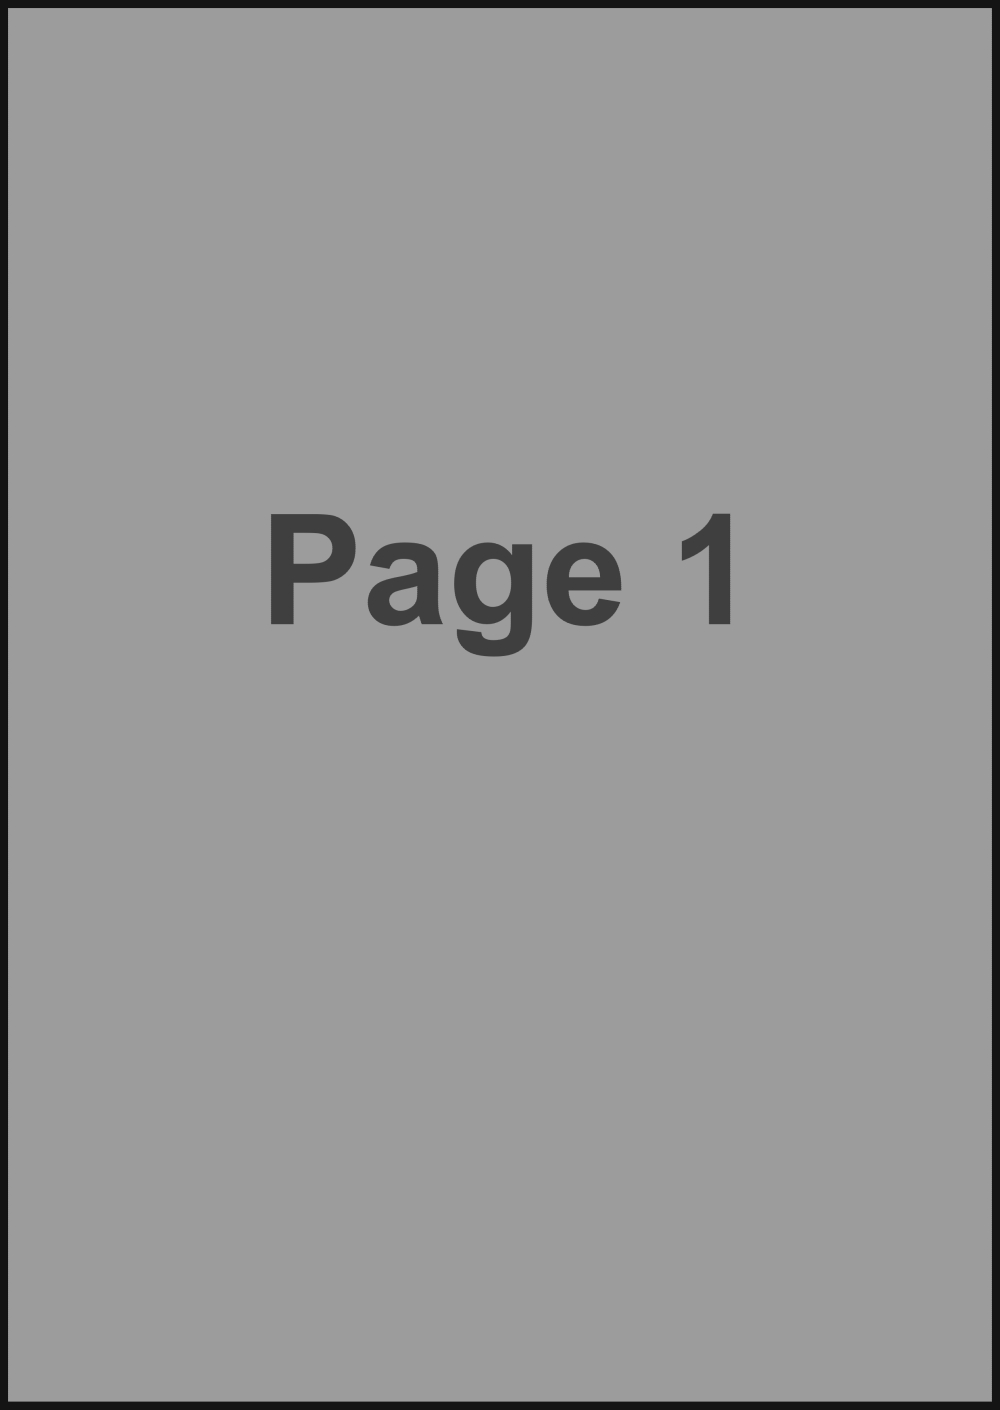
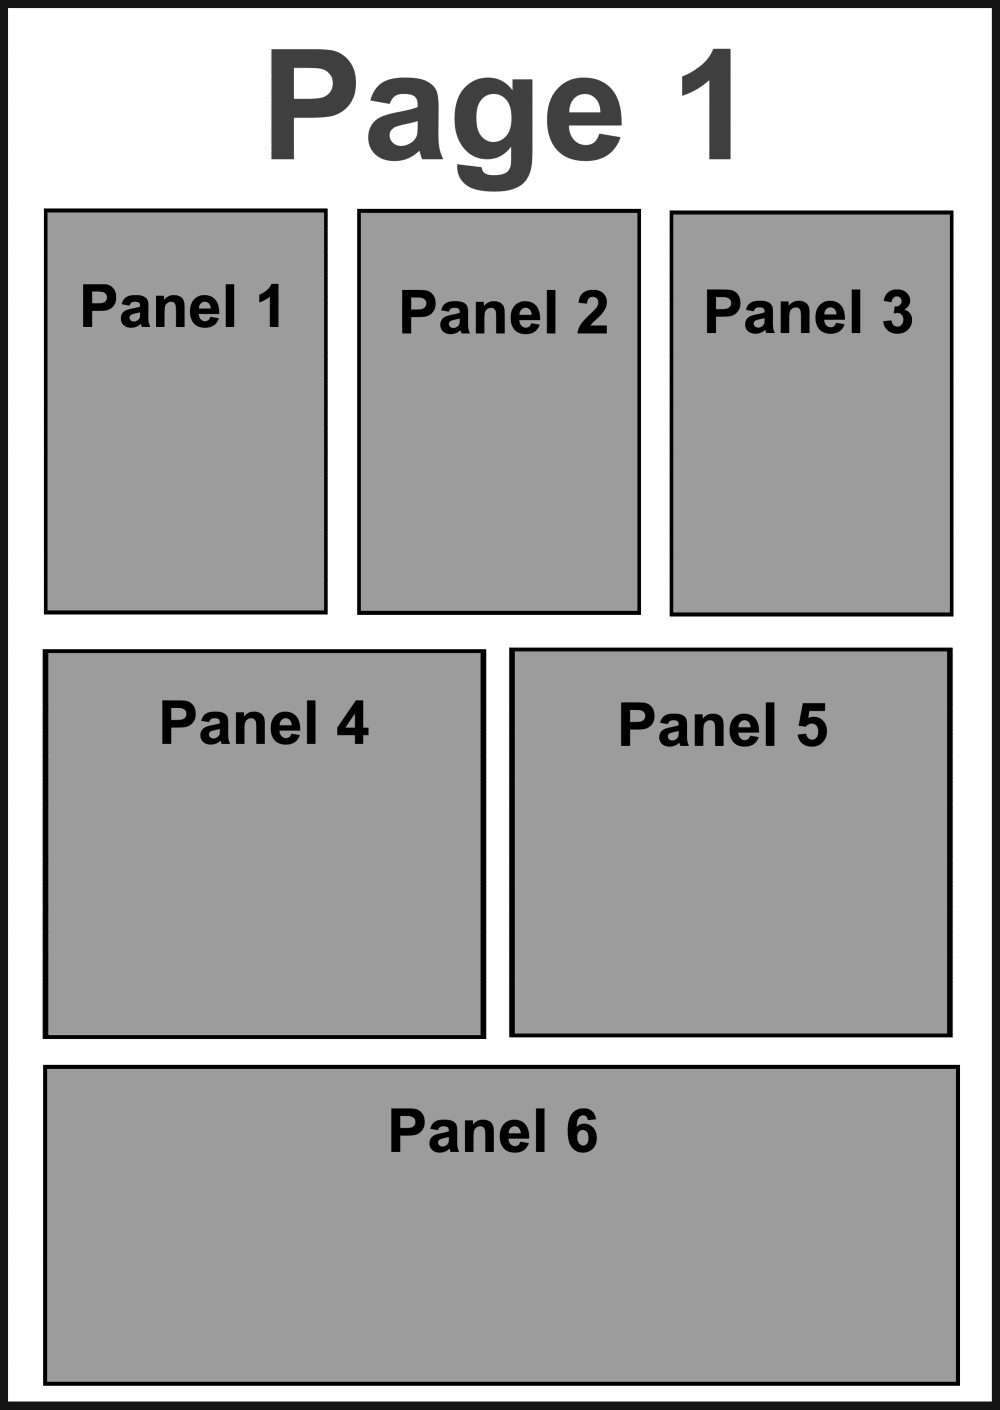
Set up multiple panel view

diff --git a/src/Components/FlexOptions/FlexOptions.jsx b/src/Components/FlexOptions/FlexOptions.jsx
@@ -1,0 +1,59 @@
+import { useState } from "react";
+import MultiPanel from "../MultiPanel/MultiPanel";
+import SinglePanel from "../SinglePanel/SinglePanel";
+import ZoomWindow from "../ZoomWindow/ZoomWindow";
+import "./FlexOptions.css";
+
+export default function FlexOptions({ source }) {
+  const [option, setOption] = useState("zoom");
+
+  function handleChange(e) {
+    setOption(e.target.value);
+  }
+
+  return (
+    <>
+      <div className="flex-options row-center">
+        <label className="flex-selector">
+          <input
+            type="radio"
+            onChange={handleChange}
+            name="flexOption"
+            value="zoom"
+            checked={option === "zoom"}
+          />
+          <div>Zoom</div>
+        </label>
+        <label className="flex-selector">
+          <input
+            type="radio"
+            onChange={handleChange}
+            name="flexOption"
+            value="singlePanel"
+            checked={option === "singlePanel"}
+          />
+          <div>Single Panel</div>
+        </label>
+        <label className="flex-selector">
+          <input
+            type="radio"
+            onChange={handleChange}
+            name="flexOption"
+            value="multiPanel"
+            checked={option === "multiPanel"}
+          />
+          <div>Multiple Panels</div>
+        </label>
+      </div>
+      {option === "zoom" ? (
+        <ZoomWindow source={source} />
+      ) : option === "singlePanel" ? (
+        <SinglePanel source={source} />
+      ) : option === "multiPanel" ? (
+        <MultiPanel />
+      ) : null}
+    </>
+  );
+}
+
+FlexOptions.propTypes;

diff --git a/src/Components/PanelSlider/PanelSlider.jsx b/src/Components/PanelSlider/PanelSlider.jsx
@@ -1,0 +1,47 @@
+import { useState } from "react";
+import Cancel from "../Icons/Cancel";
+import Next from "../Icons/Next";
+import Prev from "../Icons/Prev";
+
+export default function PanelSlider({ current, togglePanels }) {
+  const [currentPanel, setCurrentPanel] = useState(current);
+
+  function incrementCurrent() {
+    if (currentPanel < 6) {
+      setCurrentPanel((prev) => {
+        return prev + 1;
+      });
+    }
+  }
+
+  function decrementCurrent() {
+    if (currentPanel > 1) {
+      setCurrentPanel((prev) => {
+        return prev - 1;
+      });
+    }
+  }
+
+  return (
+    <div className="row-between panel-wrapper">
+      <button className="invisibutton" onClick={decrementCurrent}>
+        <Prev />
+      </button>
+      <div className="panel-window row-start">
+        <img
+          className="panel-img"
+          src={`${window.location.origin}/placeholder-panels/page-1/panel-${currentPanel}.jpg`}
+          alt=""
+        />
+      </div>
+      <button className="invisibutton" onClick={incrementCurrent}>
+        <Next />
+      </button>
+      <button className="invisibutton cancel-button" onClick={togglePanels}>
+        <Cancel />
+      </button>
+    </div>
+  );
+}
+
+PanelSlider.propTypes;

diff --git a/src/Components/MultiPanel/MultiPanel.jsx b/src/Components/MultiPanel/MultiPanel.jsx
@@ -1,0 +1,46 @@
+import { useState } from "react";
+import { pageOnePanels } from "../../Data/testPages";
+import PanelSlider from "../PanelSlider/PanelSlider";
+import "./MultiPanel.css";
+
+export default function MultiPanel() {
+  const [panelView, setPanelView] = useState(false);
+  const [startingPanel, setStartingPanel] = useState(1);
+
+  function togglePanels() {
+    setPanelView((prev) => {
+      return !prev;
+    });
+  }
+
+  function showSlider(startingPanel) {
+    setStartingPanel(startingPanel);
+    setPanelView(true);
+  }
+
+  function renderPanels(panel, i) {
+    return (
+      <button className="invisibutton" style={panel}>
+        <img
+          className="clickable-panel"
+          src={`${window.location.origin}/${
+            pageOnePanels.directory
+          }/page-1/panel-${i + 1}.jpg`}
+          alt=""
+          onClick={() => showSlider(i + 1)}
+        />
+      </button>
+    );
+  }
+
+  return (
+    <div>
+      <div className="panel-multi">
+        {pageOnePanels.layout.map(renderPanels)}
+      </div>
+      {panelView && (
+        <PanelSlider current={startingPanel} togglePanels={togglePanels} />
+      )}
+    </div>
+  );
+}

diff --git a/src/Components/SinglePanel/SinglePanel.jsx b/src/Components/SinglePanel/SinglePanel.jsx
@@ -1,0 +1,39 @@
+import { useEffect, useRef, useState } from "react";
+import { useScroll } from "../Context/ScrollContext";
+import PanelSlider from "../PanelSlider/PanelSlider";
+import "./SinglePanel.css";
+
+export default function SinglePanel({ source }) {
+  const [panelView, setPanelView] = useState(false);
+  const ref = useRef();
+  const imgRef = useRef();
+
+  const scroll = useScroll();
+
+  useEffect(() => {
+    const pagePosition = ref.current.getBoundingClientRect();
+    if (
+      scroll > pagePosition.bottom + scroll ||
+      scroll + window.innerHeight < pagePosition.top + scroll
+    ) {
+      setPanelView(false);
+    }
+  }, [scroll]);
+
+  function togglePanels() {
+    setPanelView((prev) => {
+      return !prev;
+    });
+  }
+
+  return (
+    <div ref={ref}>
+      <button className="page-button invisibutton" onClick={togglePanels}>
+        <img ref={imgRef} className="page-img" src={source} />
+      </button>
+      {panelView && <PanelSlider current={1} togglePanels={togglePanels} />}
+    </div>
+  );
+}
+
+SinglePanel.propTypes;

diff --git a/src/Components/SinglePanel/SinglePanel.css b/src/Components/SinglePanel/SinglePanel.css
@@ -1,0 +1,44 @@
+.page-img {
+  max-width: 100vw;
+}
+
+.panel-wrapper {
+  position: absolute;
+  top: 0;
+  left: 0;
+  width: 100%;
+  height: 100%;
+  padding: 0 10px;
+  background-color: rgba(0, 0, 0, 0.7);
+  align-items: center;
+}
+
+.panel-wrapper .cancel-button {
+  position: absolute;
+  top: 10px;
+  right: 10px;
+}
+
+.panel-wrapper .invisibutton {
+  color: white;
+}
+
+.panel-window {
+  /* width: 100px; */
+  /* flex-grow: 1; */
+  height: 500px;
+  overflow-x: scroll;
+  overflow-y: hidden;
+  clip-path: fill-box;
+  align-items: center;
+}
+
+.panel-img {
+  max-height: 100%;
+  box-sizing: border-box;
+}
+
+.page-img.landscape {
+  max-width: none;
+  max-height: 100%;
+}

diff --git a/src/Data/testPages.js b/src/Data/testPages.js
@@ -11,3 +11,34 @@ export const placeholderZl = {
   ext: "jpg",
   count: 6,
 };
+
+export const pageOnePanels = {
+  directory: "placeholder-panels",
+  count: 6,
+  layout: [
+    {
+      gridColumn: "1 / span 2",
+      gridRow: "1 / span 2",
+    },
+    {
+      gridColumn: "3 / span 2",
+      gridRow: "1 / span 2",
+    },
+    {
+      gridColumn: "5 / span 2",
+      gridRow: "1 / span 2",
+    },
+    {
+      gridColumn: "1 / span 3",
+      gridRow: "3 / span 2",
+    },
+    {
+      gridColumn: "4 / span 3",
+      gridRow: "3 / span 2",
+    },
+    {
+      gridColumn: "1 / span 6",
+      gridRow: "5 / span 2",
+    },
+  ],
+};

diff --git a/src/Components/Icons/Cancel.jsx b/src/Components/Icons/Cancel.jsx
@@ -1,0 +1,16 @@
+export default function Cancel() {
+  return (
+    <svg
+      className="vector-icon"
+      xmlns="http://www.w3.org/2000/svg"
+      width="24"
+      height="24"
+      viewBox="0 0 24 24"
+    >
+      <path
+        fill="currentColor"
+        d="M6.4 19L5 17.6l5.6-5.6L5 6.4L6.4 5l5.6 5.6L17.6 5L19 6.4L13.4 12l5.6 5.6l-1.4 1.4l-5.6-5.6L6.4 19Z"
+      />
+    </svg>
+  );
+}

diff --git a/src/Components/ZoomWindow/ZoomWindow.jsx b/src/Components/ZoomWindow/ZoomWindow.jsx
@@ -34,7 +34,7 @@ export default function ZoomWindow({ source }) {
   return (
     <>
       <div className="row-end zoom-btn-wrapper">
-        <button className="zoom-toggle" onClick={toggleZoom}>
+        <button className="zoom-toggle invisibutton" onClick={toggleZoom}>
           {zoom ? <ZoomOut /> : <ZoomIn />}
         </button>
       </div>

diff --git a/src/Components/ZoomWindow/ZoomWindow.css b/src/Components/ZoomWindow/ZoomWindow.css
@@ -17,10 +17,8 @@
 }
 
 .zoom-window.zoomed > .page-img {
-  position: absolute;
-  top: 0;
-  left: 0;
-  width: 200vw;
+  transform: scale(2);
+  transform-origin: 0 0;
 }
 
 .zoom-btn-wrapper {
@@ -31,8 +29,6 @@
   top: 55px;
   right: 5px;
   z-index: 5;
-  border: none;
-  background-color: transparent;
 }
 
 .zoom-toggle > svg {

diff --git a/src/Components/MultiPanel/MultiPanel.css b/src/Components/MultiPanel/MultiPanel.css
@@ -1,0 +1,14 @@
+.panel-multi {
+  width: 100vw;
+  height: calc(100vw * 1.4);
+  display: grid;
+  grid-template: repeat(6, calc(100fr / 6)) / repeat(6, calc(100fr / 6));
+  gap: 10px;
+  padding: 10px;
+  border: 2px solid black;
+}
+
+.clickable-panel {
+  width: 100%;
+  height: 100%;
+}

diff --git a/src/Components/Icons/Next.jsx b/src/Components/Icons/Next.jsx
@@ -1,0 +1,12 @@
+export default function Next() {
+  return (
+    <svg
+      xmlns="http://www.w3.org/2000/svg"
+      width="20"
+      height="20"
+      viewBox="0 0 20 20"
+    >
+      <path fill="currentColor" d="M7 1L5.6 2.5L13 10l-7.4 7.5L7 19l9-9z" />
+    </svg>
+  );
+}

diff --git a/src/Components/Icons/Prev.jsx b/src/Components/Icons/Prev.jsx
@@ -1,0 +1,12 @@
+export default function Prev() {
+  return (
+    <svg
+      xmlns="http://www.w3.org/2000/svg"
+      width="20"
+      height="20"
+      viewBox="0 0 20 20"
+    >
+      <path fill="currentColor" d="m4 10l9 9l1.4-1.5L7 10l7.4-7.5L13 1z" />
+    </svg>
+  );
+}
